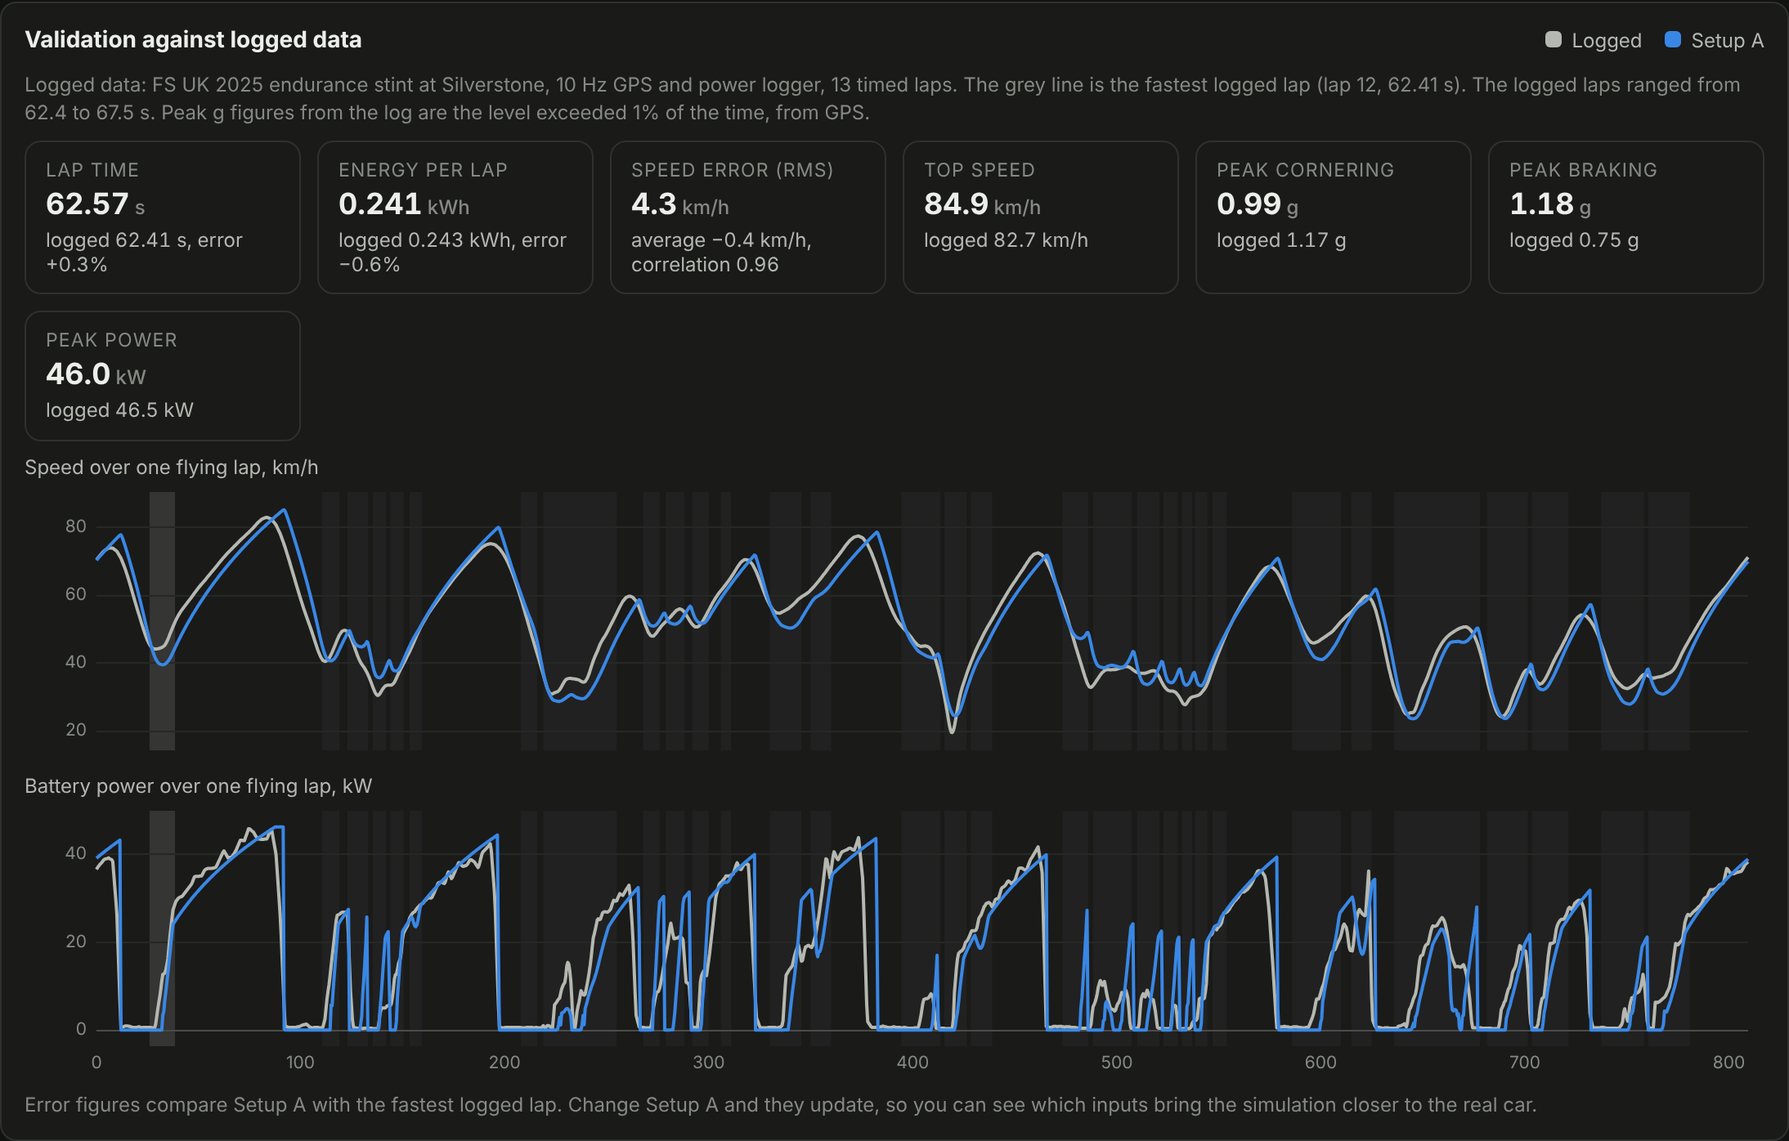
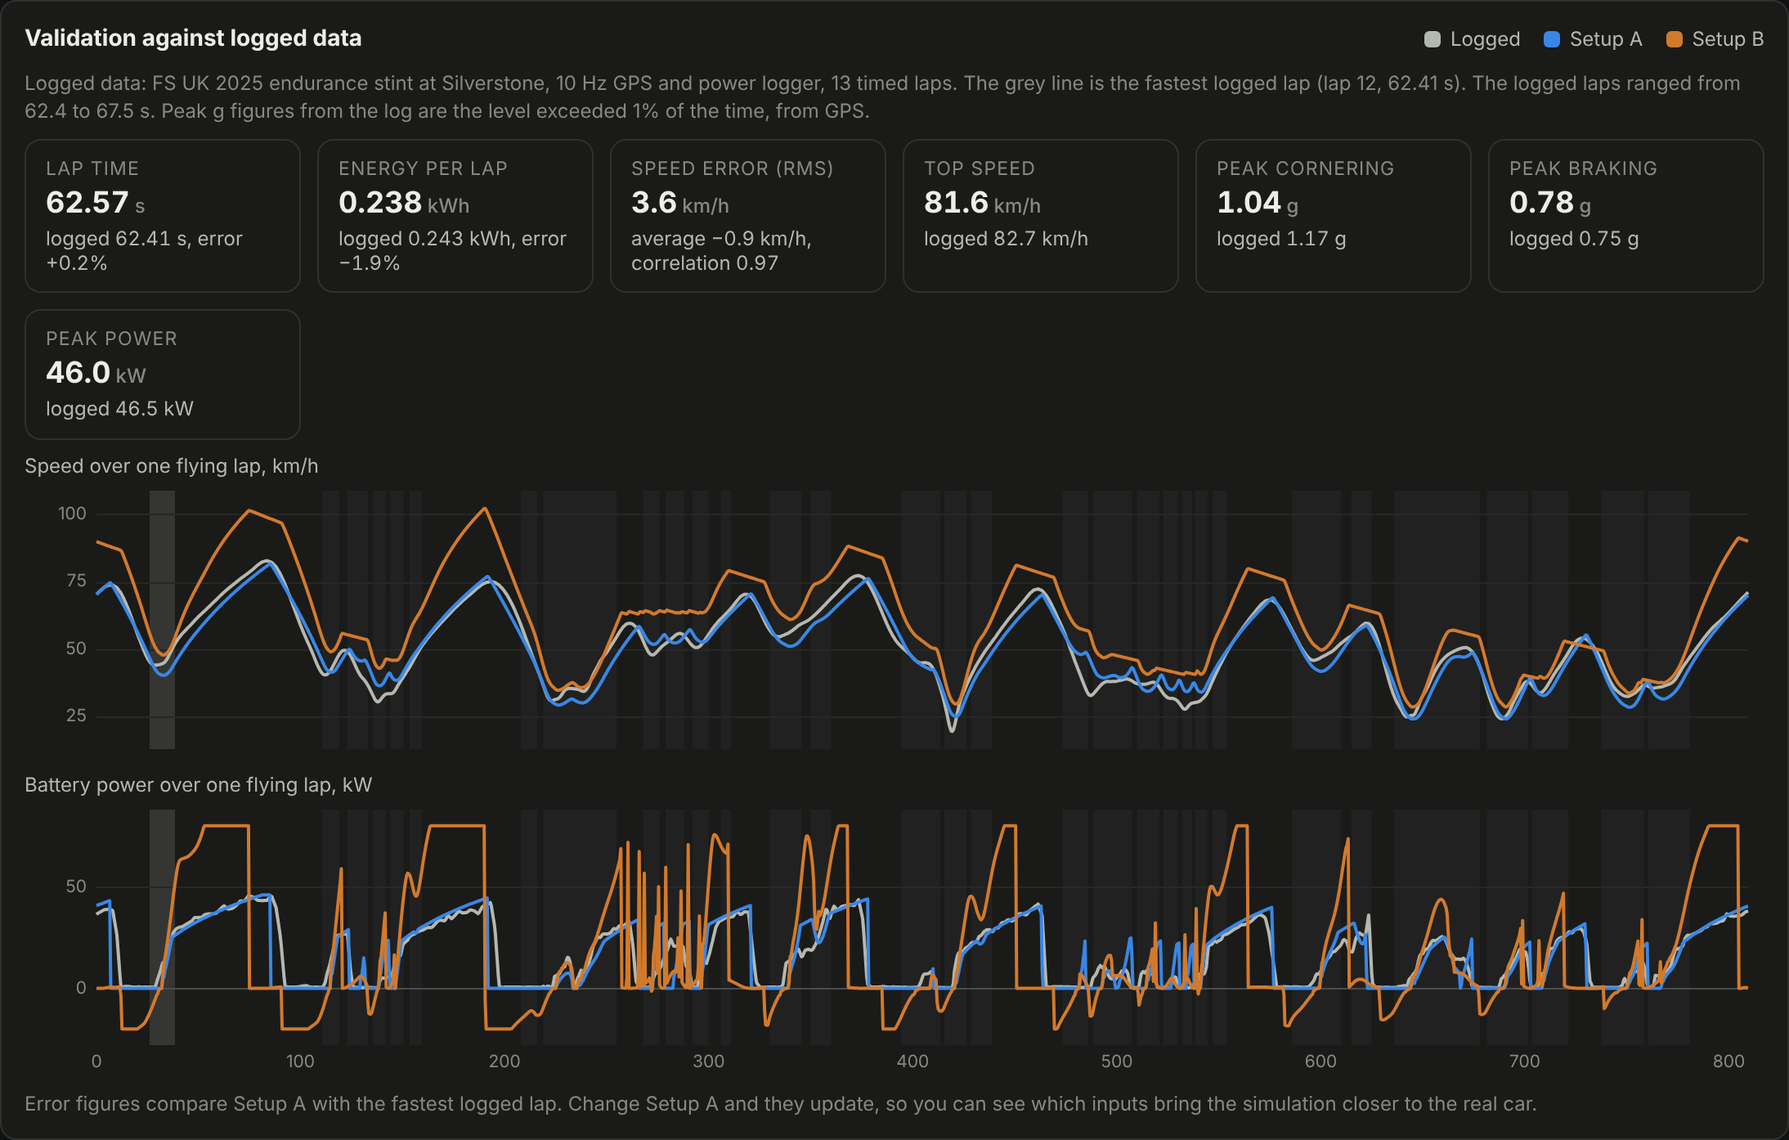
Fuller driver model: separate cornering, braking and traction shares, lift and coast
The driver now has separate grip shares for corners, braking and corner
exit, and can lift and coast a set distance before each braking point.
The preset fitted to the logged stint is refitted with gentle braking,
which brings the speed trace error down from 4.5 to 3.6 km/h RMS.

Claude-Session: https://claude.ai/code/session_014WARP8tuEjPQfDCv9Myx8Z

diff --git a/index.html b/index.html
@@ -139,7 +139,7 @@
         <p><b>What is modelled.</b> Tyre grip that falls as tyre load rises (load sensitivity); weight shifting between tyres under braking, acceleration and cornering (load transfer), split front to rear by roll stiffness from the springs and anti-roll bars; body roll, pitch and heave on springs and dampers; downforce and drag growing with speed squared; combined cornering and braking or accelerating grip (friction ellipse); a motor with a torque limit, a power limit and a top speed that falls with battery voltage; a battery with voltage that drops as it empties, internal resistance and a current limit; the 80 kW rules power limit; fixed brake bias; regenerative braking on the driven axle; tyre wear and track grip as grip scalings; air density from temperature.</p>
         <p><b>Assumptions and limits.</b></p>
         <ul>
-          <li>The driver follows a fixed driving line. Driver accuracy sets the share of tyre grip the driver uses for cornering, braking and traction, the same share everywhere on the lap; at 100% the driver is perfect. It does not model mistakes, late throttle, lifting early on straights or lap to lap variation.</li>
+          <li>The driver follows a fixed driving line. Three settings give the share of tyre grip the driver uses in corners, under braking and when putting power down, each the same everywhere on the lap; at 100% the driver is perfect. With lift and coast, the driver comes off the throttle a set distance before every braking point and rolls with no drive and no brakes until the normal braking line is reached, never dropping below the speed of the corner ahead. Mistakes, reaction time, steering corrections and lap to lap variation are not modelled.</li>
           <li>Springs and dampers affect lap time through tyre load only: the lap is solved, replayed through time on its springs and dampers, and solved again with the tyre loads that replay gives, four times, with the load differences lightly smoothed over about 1 m of track. Lap time differences under about 0.03 s are within this method's rounding. All load transfer is assumed to pass through the springs and dampers, which overstates the delay compared with a real car, where part passes instantly through the suspension links.</li>
           <li>Road bumps use a quarter-car model for each corner (sprung mass, suspension spring and damper, unsprung mass, tyre spring) and the ISO 8608 road roughness scale, giving the typical tyre load flutter at each speed. Grip lost is an assumed share of that flutter (0.3 by default); this figure is a placeholder until tyre test data is available. Roughness is the same everywhere, each corner is treated on its own, and the tyre is assumed never to leave the ground.</li>
           <li>In that replay the dampers are linear (same rate in bump and rebound), the body replay itself runs on a smooth road with rigid tyres (bumps are added through the separate model above), kerbs are not modelled, driver inputs build with a 0.08 s lag, and roll and pitch inertia use assumed radii of gyration of 0.30 m and 0.60 m.</li>
@@ -157,7 +157,7 @@
           <li>Endurance ignores the driver change stop, which is not timed.</li>
         </ul>
         <p><b>Tracks.</b> <span id="sources"></span></p>
-        <p><b>Checks against known numbers.</b> With the default car the simulator gives about 4.1 s for the 75 m acceleration and 5.1 s on skidpad. Competitive electric Formula Student cars run roughly 3.3 to 4.5 s and 4.7 to 5.3 s. A wingless car with constant grip matches the textbook skidpad formula to within 0.06 s. Fed back into lap time, body movement costs the default car about 0.4 s on the FS UK lap; halving or doubling the damper rates changes that by only a few hundredths, while a badly underdamped car loses about a further 0.1 s. The spring and damper replay settles at exactly the steady model's tyre loads and roll angle, and its overshoot after a sudden input matches the textbook formula for a spring, mass and damper to within 2%. The bump model matches a step-by-step simulation of the same two masses over a sine-wave road to within 3%, and gives the expected best damper setting at a damping ratio of about 0.4. Against a logged FS UK endurance stint (see the validation panel on the FS UK Endurance tab) the default car with a perfect driver is about 19% quicker than the logged laps. With the preset fitted to that log, the lap time is within 0.3% (this was the fitted quantity), and two things that were not fitted also agree: energy per lap within 2% and the speed trace to 4.5 km/h RMS with a correlation of 0.95. The fit has one known weakness: the simulated driver corners more gently and brakes harder than the real one, and the two errors cancel.</p>
+        <p><b>Checks against known numbers.</b> With the default car the simulator gives about 4.1 s for the 75 m acceleration and 5.1 s on skidpad. Competitive electric Formula Student cars run roughly 3.3 to 4.5 s and 4.7 to 5.3 s. A wingless car with constant grip matches the textbook skidpad formula to within 0.06 s. Fed back into lap time, body movement costs the default car about 0.4 s on the FS UK lap; halving or doubling the damper rates changes that by only a few hundredths, while a badly underdamped car loses about a further 0.1 s. The spring and damper replay settles at exactly the steady model's tyre loads and roll angle, and its overshoot after a sudden input matches the textbook formula for a spring, mass and damper to within 2%. The bump model matches a step-by-step simulation of the same two masses over a sine-wave road to within 3%, and gives the expected best damper setting at a damping ratio of about 0.4. Against a logged FS UK endurance stint (see the validation panel on the FS UK Endurance tab) the default car with a perfect driver is about 19% quicker than the logged laps. With the preset fitted to that log, the lap time is within 0.3%, energy per lap within 2% and peak braking within 0.03 g. All three were fitted (through driver grip shares and drivetrain efficiency), so they are not evidence on their own. What was not fitted: the speed trace agrees to 3.6 km/h RMS with a correlation of 0.97. The fit has one known weakness: the simulated driver's peak cornering is 1.04 g against 1.17 g logged, because the real driver reaches the limit in a few corners only, while the simulated driver uses the same share of grip in every corner.</p>
       </div>
     </details>
     <footer class="foot">Physics in Python, running in your browser through Pyodide. GP racing lines: TUM racetrack database (LGPL-3.0).</footer>

diff --git a/fslap/params.py b/fslap/params.py
@@ -69,7 +69,10 @@ CAR_GROUPS = [
 ]
 
 COND_GROUP = ("Conditions", [
-    P("driver", "Driver accuracy", "%", 100, 50, 100, 1, "How much of the tyres' grip the driver actually uses when cornering, braking and putting power down. 100 = a perfect driver on the limit everywhere. A good student driver is typically around 85 to 95. On a straight the driver still uses full power."),
+    P("driver", "Driver: cornering grip used", "%", 100, 50, 100, 1, "How much of the tyres' grip the driver uses in corners. 100 = a perfect driver on the limit in every corner. A good student driver is typically around 85 to 95."),
+    P("driver_brake", "Driver: braking grip used", "%", 100, 30, 100, 1, "How hard the driver brakes, as a share of what the tyres could take. Most drivers are further from the limit under braking than in corners, because locking a wheel is easy and costly. A lower figure means earlier, gentler braking."),
+    P("driver_power", "Driver: traction used on corner exit", "%", 100, 30, 100, 1, "How much of the available traction the driver uses when putting power down. On a straight, where grip is not the limit, the driver still uses full power."),
+    P("lift_coast", "Lift and coast before braking", "m", 0, 0, 40, 1, "The driver lifts off the throttle this many metres before each braking point and lets the car roll. Costs a little lap time and saves energy, which is how teams make the battery last in endurance."),
     P("soc_start", "Battery charge at start", "%", 100, 5, 100, 1, "State of charge when the run starts. Lower charge means lower voltage, less power and a lower top speed."),
     P("power_cap", "Power limit", "kW", 80, 5, 80, 1, "Electrical power limit at the battery. The rules cap this at 80 kW. Teams turn it down in endurance to make the battery last."),
     P("tyre_wear", "Tyre wear at start", "%", 0, 0, 100, 1, "0 = new tyres, 100 = fully worn. Assumed to cut grip in a straight line down to 12% less at fully worn."),
@@ -85,13 +88,15 @@ PRESETS = [
     dict(id="typical", name="Typical FS electric car", car={}, cond={},
          note="A generic mid-field electric Formula Student car. Not any specific team's car."),
     dict(id="logged", name="Fitted to the logged FS UK stint",
-         car=dict(motor_torque=80, drive_eff=80, regen_kw=0, mu_x=1.2, mu_y=1.2),
-         cond=dict(power_cap=46, driver=82),
+         car=dict(motor_torque=80, drive_eff=74, regen_kw=0, mu_x=1.3, mu_y=1.3),
+         cond=dict(power_cap=46, driver=79, driver_brake=48, driver_power=79),
          note="Read from the log: 46 kW peak power, no regen, and a constant push of about 2000 N at full "
               "throttle (so the car was torque limited, not power limited). "
-              "Fitted: tyre grip 1.2 with a driver using 82% of it, which reproduces the best lap time. "
-              "Assumed: everything else, including mass (300 kg with driver) and 80% drivetrain "
-              "efficiency. The true mass would change the fitted grip and driver figures."),
+              "Fitted: tyre grip 1.3 with a driver using 79% of it in corners and on corner exit but only "
+              "48% under braking, which reproduces the best lap time and the logged braking of 0.75 g; "
+              "74% drivetrain efficiency, which reproduces the energy used per lap. "
+              "Assumed: everything else, including mass (300 kg with driver). The true mass would change "
+              "the fitted figures."),
 ]
 
 PARAM_GROUPS = dict(

diff --git a/fslap/solver.py b/fslap/solver.py
@@ -59,7 +59,45 @@ def _passes(veh, ks, vlim, ds, v_start, v_end=None, offs=None):
         vp = math.sqrt(vi * vi - two_ds * a)
         if vp < v[i - 1]:
             v[i - 1] = vp
+    if veh.lift_m > 0:
+        _lift_and_coast(veh, ks, v, ds, offs)
     return v
+
+
+def _lift_and_coast(veh, ks, v, ds, offs):
+    """Driver lifts off the throttle a set distance before each braking point
+    and lets the car roll (no drive, no brakes) until the braking line is met.
+    Saves energy in endurance at a small cost in lap time. The car is never
+    allowed to roll down below the speed the corner ahead will be taken at.
+
+    v holds the fastest possible speeds. Mark the stretch from the lift point
+    to the end of each braking zone as "no drive", then drive forward again
+    with the old speeds as the ceiling."""
+    n = len(v)
+    w = max(1, int(round(veh.lift_m / ds)))
+    m, two_ds = veh.m, 2 * ds
+    coast = [None] * n          # for no-drive points: the speed at the end of that braking zone
+    b = 1
+    while b < n - 1:
+        if v[b] >= v[b - 1] and v[b + 1] < v[b] and \
+                (v[b] * v[b] - v[b + 1] * v[b + 1]) / two_ds > 2 * veh.resist(v[b]) / m + 1.0:   # real braking, not just drag
+            e = b
+            while e < n - 1 and v[e + 1] < v[e]:
+                e += 1
+            for i in range(max(0, b - w), e):
+                coast[i] = v[e]
+            b = e
+        b += 1
+    for i in range(n - 1):
+        vi = v[i]
+        if coast[i] is not None and vi > coast[i]:
+            # rolling, but never slower than the corner ahead will be taken
+            vn = max(coast[i], math.sqrt(max(0.0, vi * vi - two_ds * veh.resist(vi) / m)))
+        else:
+            a, _ = veh.ax_max(max(vi, 0.3), ks[i], offs[i])
+            vn = math.sqrt(max(0.0, vi * vi + two_ds * a))
+        if vn < v[i + 1]:
+            v[i + 1] = vn
 
 
 def _solve_lap(veh, track, vlim, standing, offs=None):

diff --git a/fslap/vehicle.py b/fslap/vehicle.py
@@ -81,7 +81,13 @@ class Vehicle:
         self.bump_r = c["bump_sens"] * self.sig_r
         self.p_cap = cond["power_cap"] * 1000.0
         self.track_grip = cond["track_grip"] / 100.0
-        self.skill = min(1.0, max(0.3, cond.get("driver", 100) / 100.0))
+        # Driver: share of the tyres' grip used for cornering, and separately for
+        # braking and for putting power down (see the notes in solver.py).
+        clip = lambda x: min(1.0, max(0.3, x / 100.0))
+        self.skill = clip(cond.get("driver", 100))
+        self.k_brake = clip(cond.get("driver_brake", 100)) / self.skill
+        self.k_power = clip(cond.get("driver_power", 100)) / self.skill
+        self.lift_m = max(0.0, cond.get("lift_coast", 0.0))     # lifts off this far before braking
         self.rr = self.crr * self.m * G
         self.air_temp = cond["air_temp"]
         self.t_opt = c.get("tyre_temp_opt", 70.0)
@@ -223,7 +229,7 @@ class Vehicle:
 
     def _traction(self, xf, xr):
         d = self.drive
-        return xr if d == "RWD" else (xf + xr if d == "AWD" else xf)
+        return self.k_power * (xr if d == "RWD" else (xf + xr if d == "AWD" else xf))
 
     def ax_max(self, v, kappa, d=None):
         """Best forward acceleration (m/s²) at speed v on a curve of curvature kappa.
@@ -271,7 +277,7 @@ class Vehicle:
         b = self.bias
         for _ in range(12):
             xf, xr, _ok, drag = self._fx_left(v, ax, ay, d)
-            fb = min(xf / b, xr / (1 - b))
+            fb = self.k_brake * min(xf / b, xr / (1 - b))
             new = -(fb + res + drag) / self.m
             if abs(new - ax) < 0.04:
                 ax = new

diff --git a/tests/test_benchmarks.py b/tests/test_benchmarks.py
@@ -70,6 +70,22 @@ class Driver(unittest.TestCase):
         b = run("skidpad", car, {"driver": 81})["time"]
         self.assertAlmostEqual(b / a, 1 / 0.9, delta=0.01)
 
+    def test_gentle_braking_lowers_peak_braking_only(self):
+        a, b = run("fsuk_autocross"), run("fsuk_autocross", cond={"driver_brake": 50})
+        self.assertGreater(b["time"], a["time"])
+        self.assertLess(-b["ax_min"], 0.65 * -a["ax_min"])
+        self.assertAlmostEqual(b["ay_max"], a["ay_max"], delta=0.03)
+
+    def test_traction_share_slows_the_launch(self):
+        self.assertGreater(run("accel", cond={"driver_power": 70})["time"], run("accel")["time"] + 0.3)
+
+    def test_lift_and_coast_trades_time_for_energy(self):
+        a, b = run("fsuk_autocross"), run("fsuk_autocross", cond={"lift_coast": 10})
+        self.assertGreater(b["time"], a["time"])
+        self.assertLess(b["time"], a["time"] + 4)
+        self.assertLess(b["energy_kwh"], 0.9 * a["energy_kwh"])
+        self.assertGreater(b["v_min"], 0.9 * a["v_min"])          # never rolls to a crawl
+
     def test_straight_line_power_not_reduced(self):
         # Top speed on a long straight is set by the motor, not by the driver setting.
         self.assertAlmostEqual(run("silverstone_gp", cond={"driver": 85})["v_max"], run("silverstone_gp")["v_max"], delta=0.1)

diff --git a/README.md b/README.md
@@ -15,7 +15,7 @@ An interactive lap time simulator for **electric Formula Student cars**. Enter t
 
 - **Events:** 75 m acceleration, skidpad, an FS UK sprint lap, the 22 km FS UK endurance (with battery energy tracked lap by lap), and flying laps of the Silverstone and Hockenheim Grand Prix circuits.
 - **Car inputs:** mass, wheelbase, track widths, centre of gravity, tyre grip, load sensitivity and slip at peak grip (Pacejka Magic Formula curves), downforce and drag, motor torque/power/speed, gear ratio, driven wheels, battery capacity/voltage/resistance/current limit, regen, brake bias, spring rates, anti-roll bars and damper rates. The defaults are a typical mid-field electric FS car, not a specific team's car.
-- **Conditions:** driver accuracy, track roughness, battery charge, power limit, tyre temperature and wear, track grip (dry to wet) and air temperature.
+- **Conditions:** driver model (cornering, braking and traction grip used, lift and coast), track roughness, battery charge, power limit, tyre temperature and wear, track grip (dry to wet) and air temperature.
 - **Suspension and dampers:** a time-based replay of body roll, pitch and heave, road bumps, damper speed histograms, and their effect on lap time.
 - **Setup optimiser:** searches gear ratio, spring rates and damper rates for the selected event and loads the result into Setup B.
 - **Points calculator:** runs the four dynamic events and scores them with the Formula Student formulas.
@@ -47,7 +47,7 @@ The lowest of those speeds at each point is the fastest possible lap for a perfe
 
 ## Assumptions
 
-Fixed driving line. Driver accuracy is the share of tyre grip the driver uses (100% = perfect), applied evenly round the lap; mistakes and early lifting are not modelled. Flat track. Springs and dampers act on lap time through tyre load: the lap is solved, replayed through time on its springs and dampers (`fslap/ride.py`), and solved again with the tyre loads from that replay, four times over. Differences under about 0.03 s are within this method's rounding. All load transfer is assumed to pass through springs and dampers. Road bumps use a quarter-car model per corner and the ISO 8608 roughness scale to get tyre load flutter; the grip lost is an assumed share of that flutter (0.3 by default) pending tyre test data. In the body replay dampers are linear, kerbs are not modelled, inputs build with a 0.08 s lag, and roll and pitch inertia use assumed radii of gyration (0.30 m and 0.60 m). Roll centres at ground level. Tyres are a peak grip coefficient with linear load sensitivity and a friction ellipse for combined cornering and braking; no tyre temperature, camber or toe. Tyre wear is a linear grip loss up to 12% when fully worn. All-wheel drive splits torque in proportion to axle grip. Regen keeps the set brake balance and is off below 5 km/h. Battery limits are held constant within a lap and updated between laps. The endurance driver change is not timed.
+Fixed driving line. The driver uses a set share of tyre grip in corners, under braking and on corner exit (100% = perfect), applied evenly round the lap, and can lift and coast a set distance before each braking point; mistakes and lap to lap variation are not modelled. Flat track. Springs and dampers act on lap time through tyre load: the lap is solved, replayed through time on its springs and dampers (`fslap/ride.py`), and solved again with the tyre loads from that replay, four times over. Differences under about 0.03 s are within this method's rounding. All load transfer is assumed to pass through springs and dampers. Road bumps use a quarter-car model per corner and the ISO 8608 roughness scale to get tyre load flutter; the grip lost is an assumed share of that flutter (0.3 by default) pending tyre test data. In the body replay dampers are linear, kerbs are not modelled, inputs build with a 0.08 s lag, and roll and pitch inertia use assumed radii of gyration (0.30 m and 0.60 m). Roll centres at ground level. Tyres are a peak grip coefficient with linear load sensitivity and a friction ellipse for combined cornering and braking; no tyre temperature, camber or toe. Tyre wear is a linear grip loss up to 12% when fully worn. All-wheel drive splits torque in proportion to axle grip. Regen keeps the set brake balance and is off below 5 km/h. Battery limits are held constant within a lap and updated between laps. The endurance driver change is not timed.
 
 ## Validation so far
 
@@ -61,10 +61,10 @@ Fixed driving line. Driver accuracy is the share of tyre grip the driver uses (1
 | Damper feedback into lap time | settles within 0.06 s between rounds; steady skidpad unchanged by dampers; a badly underdamped car is slower | expected behaviour |
 | Bump model gain | within 3% of a step-by-step simulation; exact mass x acceleration limit at low frequency | independent time-stepping, hand calculation |
 | Best damper setting over bumps | damping ratio about 0.4 | textbook road-holding optimum of roughly 0.3 to 0.5 |
-| FS UK flying lap, preset fitted to a logged stint | lap time +0.4% (fitted); energy per lap +1.0% and speed trace 4.5 km/h RMS, correlation 0.95 (not fitted) | logged GPS and power, fastest of 13 laps |
+| FS UK flying lap, preset fitted to a logged stint | lap time +0.3%, energy per lap -1.9%, peak braking 0.78 g against 0.75 g (all fitted); speed trace 3.6 km/h RMS, correlation 0.97 (not fitted) | logged GPS and power, fastest of 13 laps |
 | FS UK flying lap, default car and perfect driver | about 19% quicker than the log | same |
 
-The default car is generic, so its absolute lap times are not a prediction for any real car. The fitted preset shows the model can reproduce a real lap once the inputs are right, with one known weakness: the simulated driver corners more gently (0.99 g against 1.17 g) and brakes harder (1.19 g against 0.75 g) than the real one, and the two errors cancel in lap time. The validation panel on the FS UK Endurance tab shows all of this live.
+The default car is generic, so its absolute lap times are not a prediction for any real car. The fitted preset shows the model can reproduce a real lap once the inputs are right, with one known weakness: the simulated driver's peak cornering is 1.04 g against 1.17 g logged, because the real driver reaches the limit in only a few corners while the simulated driver uses the same share of grip in every corner. The validation panel on the FS UK Endurance tab shows all of this live.
 
 ## Running it
 
